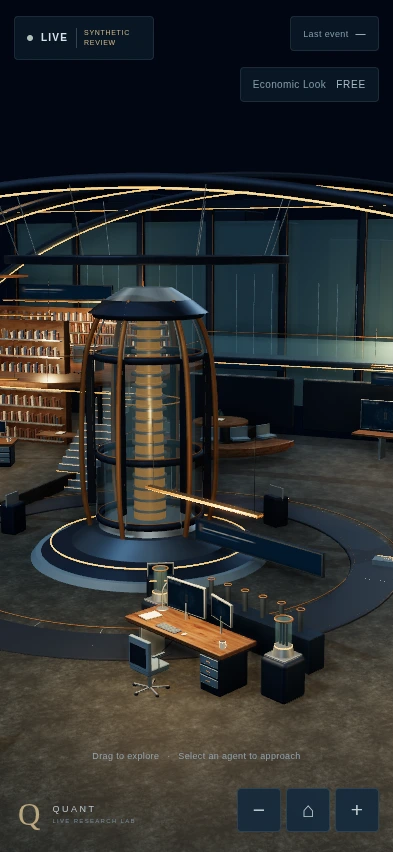
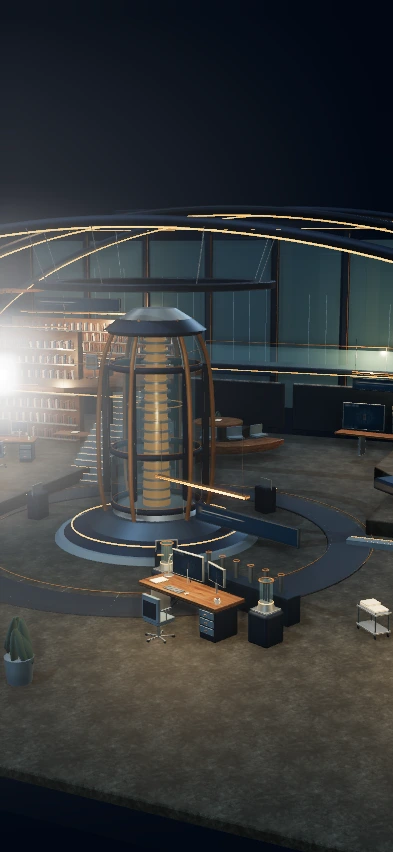
live lab: keep factual HUD out of architectural fallback backgrounds

diff --git a/research/live_lab_ux/docs/REBUILD_20261016.md b/research/live_lab_ux/docs/REBUILD_20261016.md
@@ -30,3 +30,7 @@ Review `review/index.html` and `docs/VISUAL_REVIEW.md`. These artifacts replace 
 NEXT_ACTION = OWNER_VISUAL_REVIEW
 PRODUCTION_REPLACEMENT_AUTHORIZED = FALSE
 VISUAL_REVIEW_REQUIRED = TRUE
+
+### Fallback truth check
+
+Visual inspection found that an element screenshot had included overlapping HUD in the background. Capture tooling now hides every non-world overlay before generating the two empty illustrations. Both backgrounds were regenerated and their blank sky regions verified free of baked UI; a fresh forced-fallback capture shows only the current factual DOM HUD. The review A–E images intentionally retain their review HUD. No connection state, clock, worker or activity is painted into the fallback environment.
